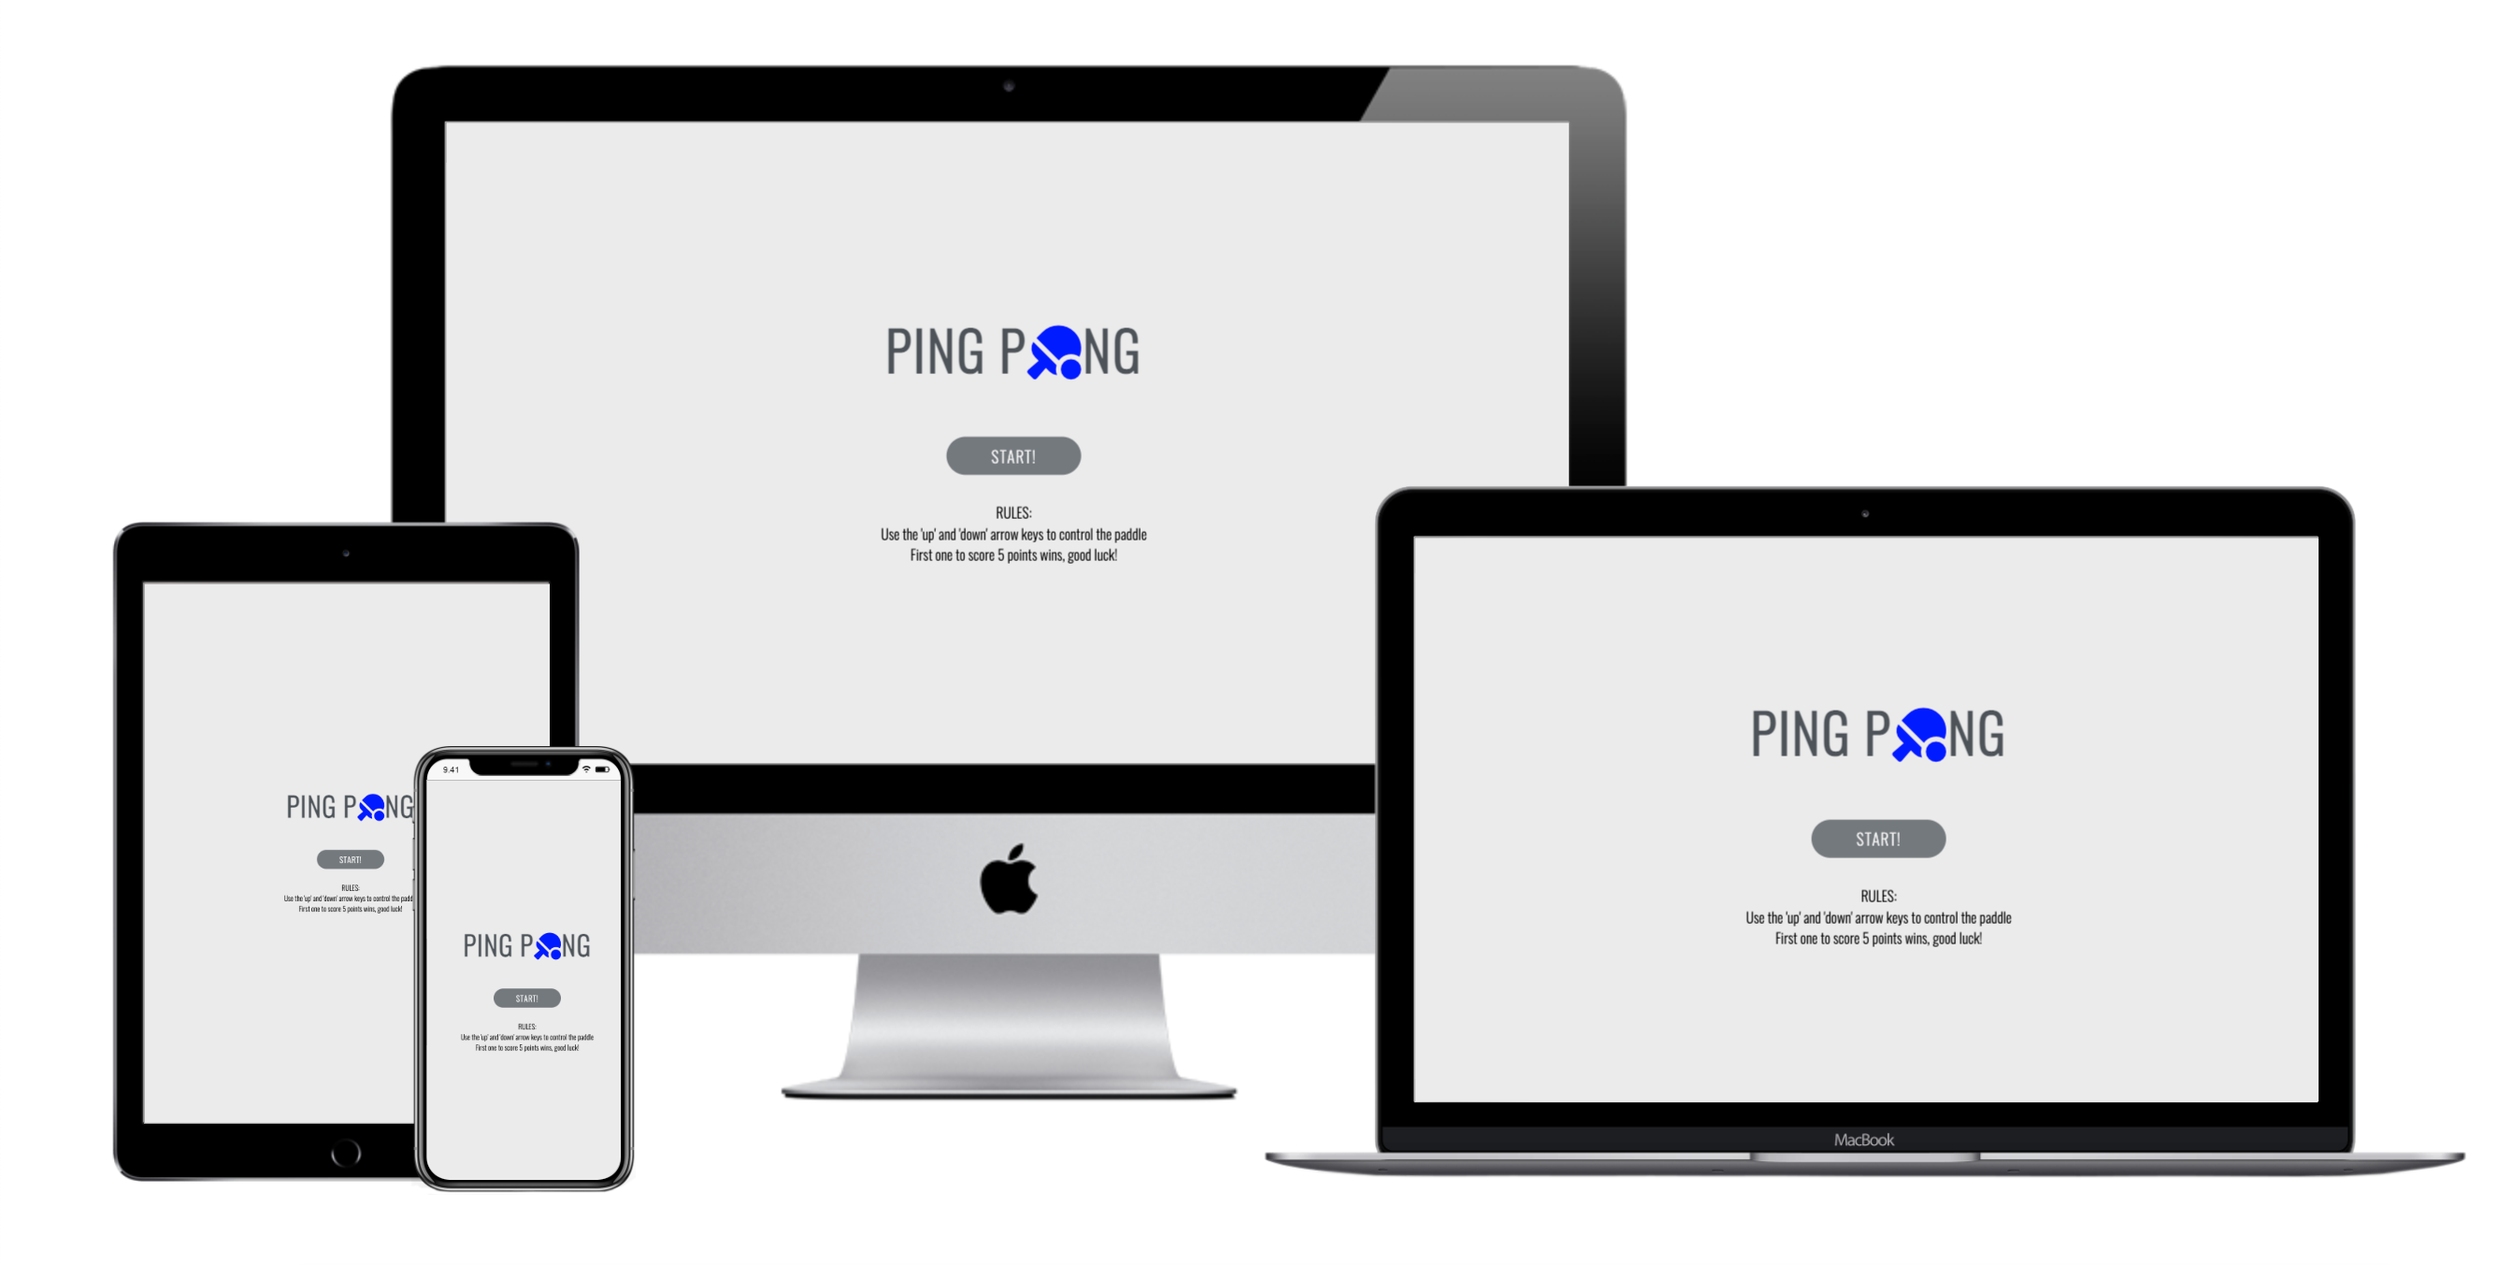
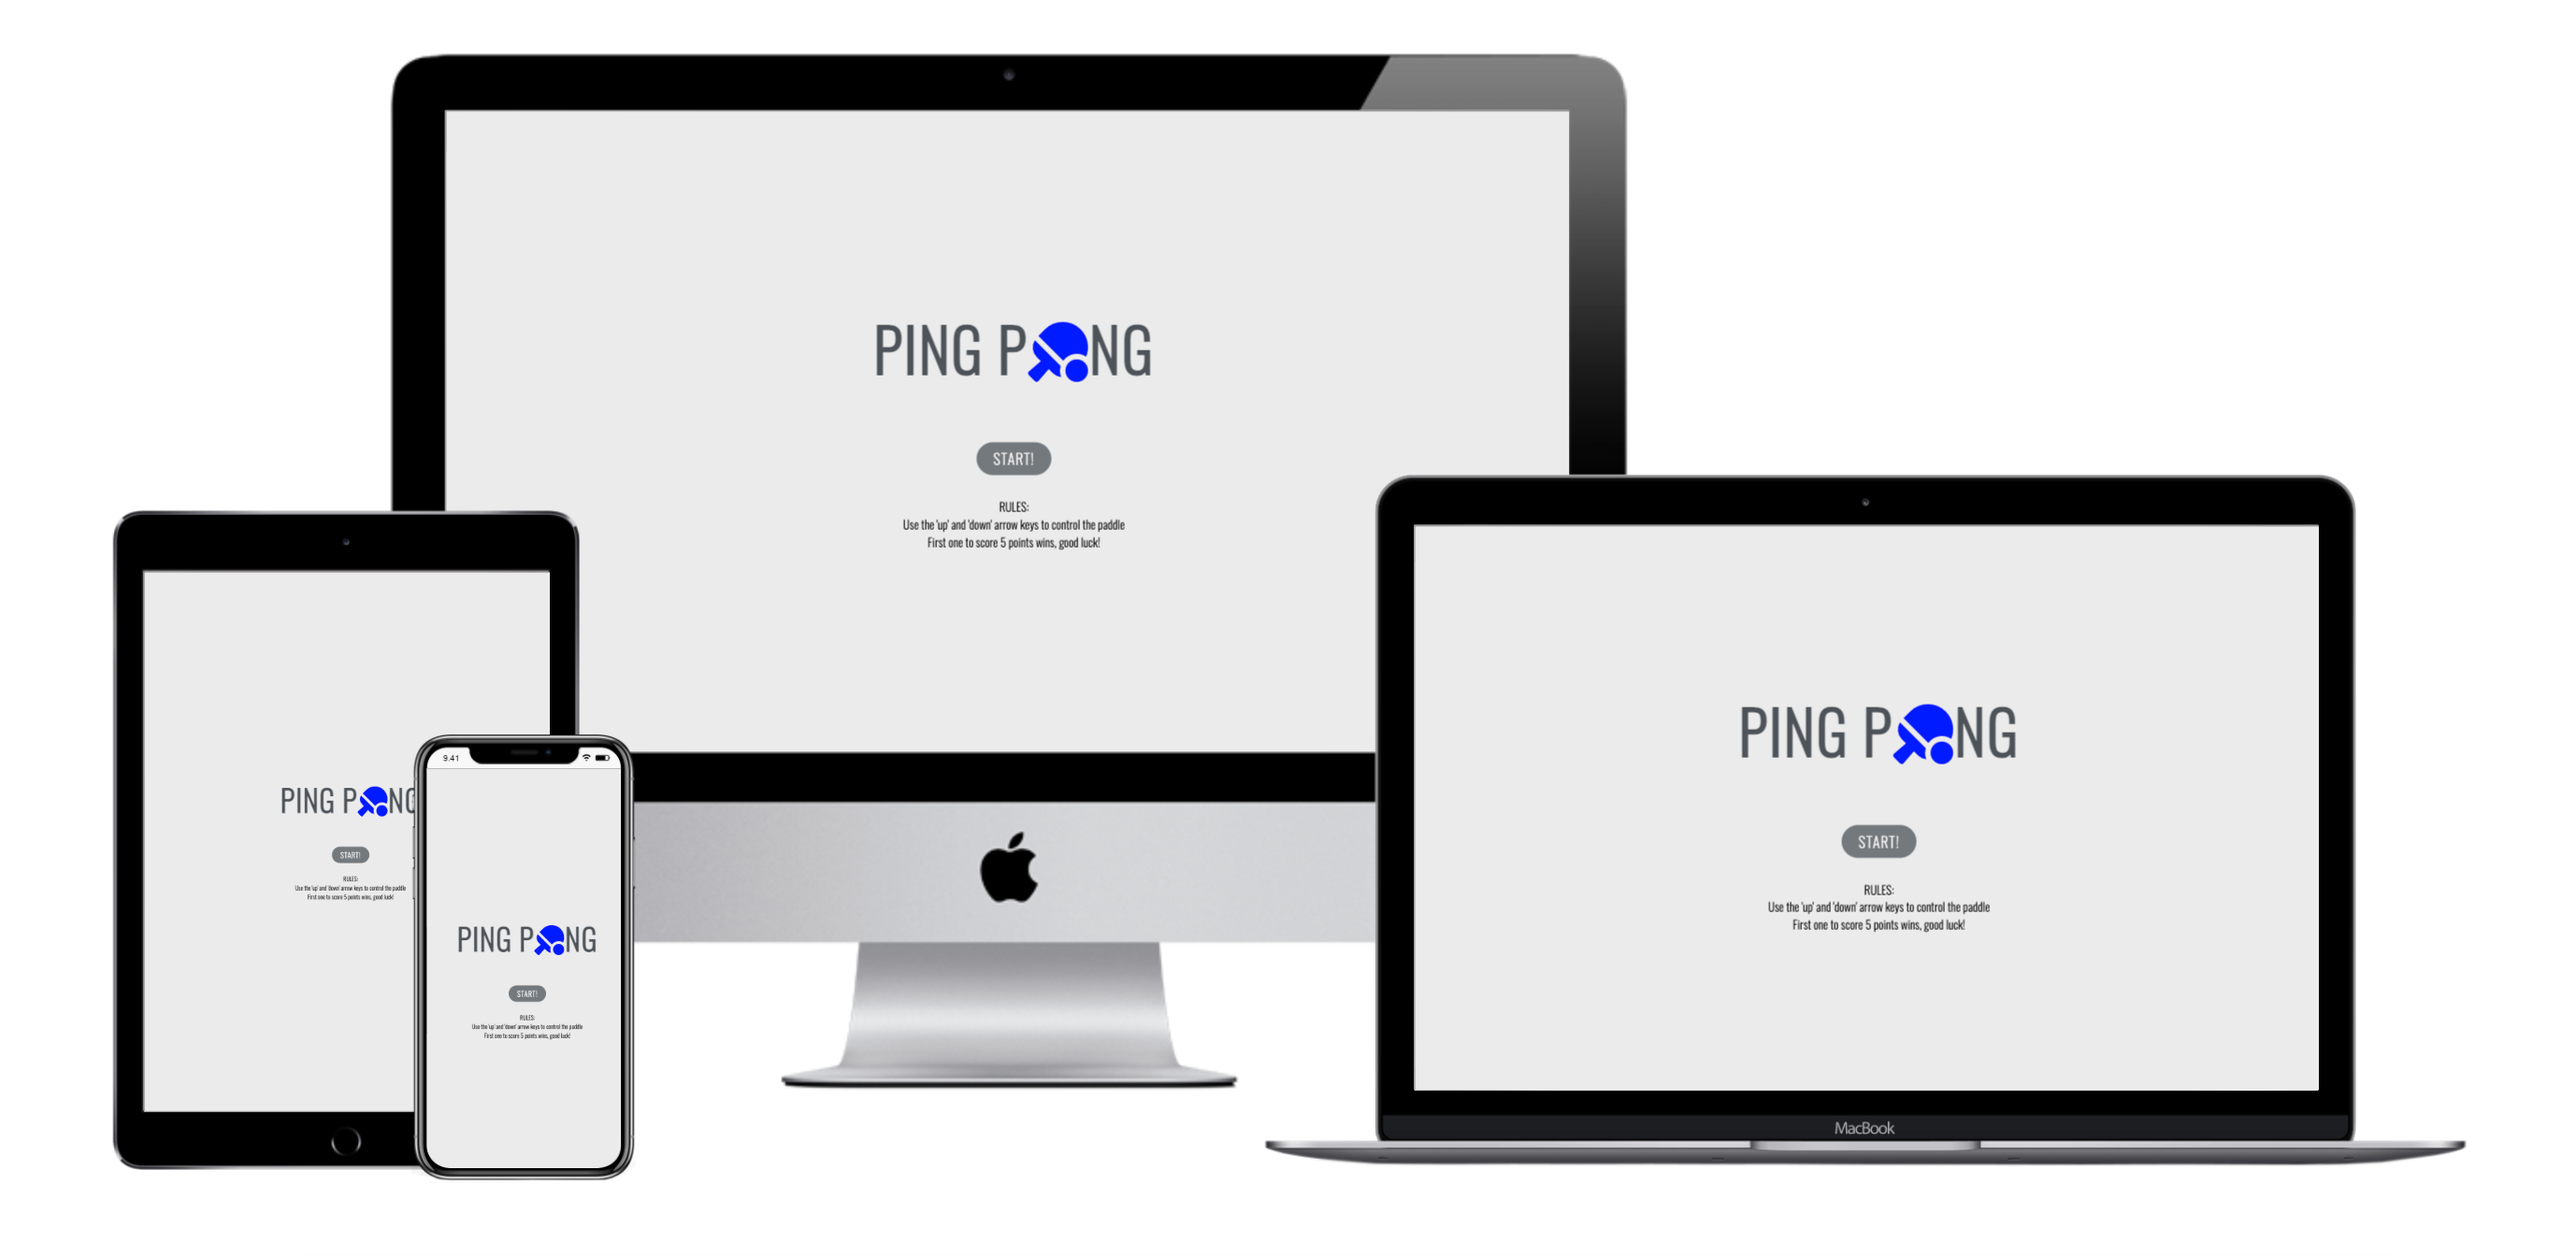
Change button size and add mockup image to images folder

diff --git a/assets/css/style.css b/assets/css/style.css
@@ -67,8 +67,8 @@ body, html {
     font-size: 20px;
     text-transform: uppercase;
     letter-spacing: 1px;
-    margin: 14px;
-    min-width: 100px;
+    margin: 16px;
+    min-width: 150px;
     opacity: .75;
     transition: .25s;
     cursor: pointer;
